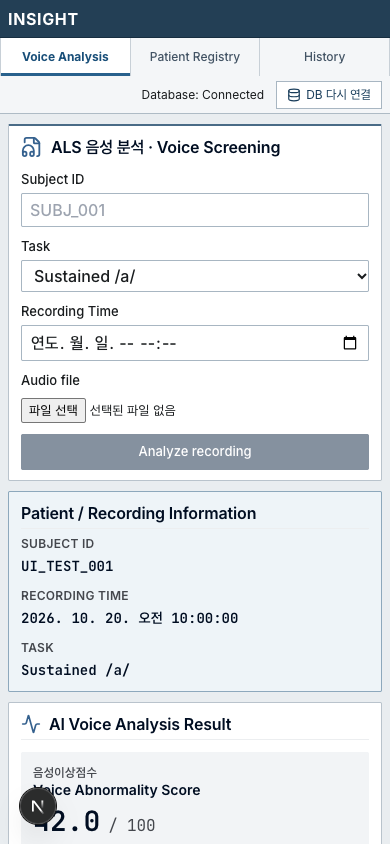
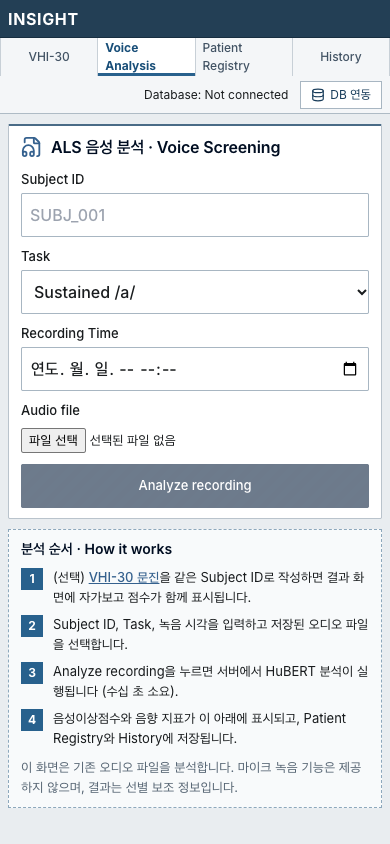
README: rubric-to-evidence map, updated test counts and screenshots; h7 multi-seed + validation OOD calibration script

diff --git a/experiments/h7_multiseed/run_h7_multiseed.py b/experiments/h7_multiseed/run_h7_multiseed.py
@@ -1,0 +1,224 @@
+"""Multi-seed retraining of the deployed head (HuBERT h07 + time max + MLP) and validation-based OOD calibration.
+
+Why: the deployed configuration was trained with one seed (42), so its CIs carry subject-resampling uncertainty
+only. The OOD threshold in ood_calibration.json was set from 4 cached *test* features. This script answers both
+on the same subject split (9bb28df8) without touching the test split for any choice.
+
+Run in Google Colab with Drive mounted (CPU is enough; ~1 min per seed):
+
+    !git clone https://github.com/KYU-SW/INSIGHT.git && cd INSIGHT && pip -q install torch numpy
+    !python experiments/h7_multiseed/run_h7_multiseed.py \
+        --cache-dir "/content/drive/MyDrive/2026_2_INSIGHT/ALS_RESULTS/ALS_voice_analysis_20260921_075155/HUBERT_ALL_LAYERS_POOLED_CACHE_V1" \
+        --out experiments/h7_multiseed
+
+The cache holds one <sample_id>.npz per recording with `pooled` float32 (25, 2, 1024) = hidden state x [mean, max]
+(7EXP notebook). The h07 time-max feature is pooled[7, 1]; it was checked against
+provenance/.../test_features_h07_max.npz (max |diff| <= 7.3e-5 on a feature scale of ~80) and reproduces the stored
+deployed probabilities. The script writes h07_max_9bb28df8.npz (~9 MB) so later runs can use --features instead.
+
+Recipe = deployed run 20261005T055211_070474Z: StandardScaler fit on train, Linear(1024,128)-ReLU-Linear(128,1)
+(head.pt has classifier.0/classifier.2, i.e. no dropout layer), Adam lr 1e-3, batch 64, BCE, max 100 epochs,
+patience 20 on validation loss, best-val-loss weights. Weight decay is not recorded in that run's config; default 0
+(override with --weight-decay). Subject rule fixed in advance: mean P(ALS) over recordings >= 0.5.
+"""
+
+import argparse
+import csv
+import hashlib
+import json
+import random
+from pathlib import Path
+
+import numpy as np
+import torch
+from torch import nn
+
+ROOT = Path(__file__).resolve().parents[2]
+RUN = ROOT / "provenance" / "run_20261005T055211_070474Z"
+
+
+def load_manifest(path):
+    rows = list(csv.DictReader(open(path, newline="")))
+    return [(r["sample_id"], r["subject"], int(r["label"]), r["split"]) for r in rows]
+
+
+def consolidate(cache_dir, manifest, out_path):
+    feats = np.empty((len(manifest), 1024), dtype=np.float32)
+    for i, (sample_id, *_rest) in enumerate(manifest):
+        with np.load(Path(cache_dir) / f"{sample_id}.npz", allow_pickle=False) as z:
+            pooled = z["pooled"]
+        if pooled.shape != (25, 2, 1024):
+            raise ValueError(f"{sample_id}: unexpected pooled shape {pooled.shape}")
+        feats[i] = pooled[7, 1]
+    np.savez(out_path, features=feats, sample_id=np.array([m[0] for m in manifest]))
+    return feats
+
+
+def check_against_provenance(feats, manifest):
+    ref_path = RUN / "test_features_h07_max.npz"
+    if not ref_path.exists():
+        return None
+    index = {m[0]: i for i, m in enumerate(manifest)}
+    with np.load(ref_path, allow_pickle=False) as ref:  # keys are sample_ids, values the 1024-d h07 max feature
+        ref_x = {k: ref[k] for k in ref.keys()}
+    ids = list(ref_x)
+    diff = max(float(np.max(np.abs(feats[index[s]] - ref_x[s]))) for s in ids)
+    if diff > 1e-3:
+        raise SystemExit(f"Feature mismatch vs provenance (max |diff| {diff:.2e}): wrong layer/pooling or cache version")
+    return {"n": len(ids), "max_abs_diff": diff}
+
+
+class Head(nn.Module):
+    def __init__(self, dropout):
+        super().__init__()
+        layers = [nn.Linear(1024, 128), nn.ReLU()] + ([nn.Dropout(dropout)] if dropout else []) + [nn.Linear(128, 1)]
+        self.classifier = nn.Sequential(*layers)
+
+    def forward(self, x):
+        return self.classifier(x)[:, 0]
+
+
+def seed_everything(seed):
+    random.seed(seed); np.random.seed(seed); torch.manual_seed(seed)
+    torch.use_deterministic_algorithms(True, warn_only=True)
+
+
+@torch.no_grad()
+def predict(model, x):
+    model.eval()
+    return torch.sigmoid(model(torch.from_numpy(x))).numpy()
+
+
+def train(x_tr, y_tr, x_va, y_va, seed, args):
+    seed_everything(seed)
+    model = Head(args.dropout)
+    opt = torch.optim.Adam(model.parameters(), lr=1e-3, weight_decay=args.weight_decay)
+    xt, yt = torch.from_numpy(x_tr), torch.from_numpy(y_tr.astype(np.float32))
+    xv, yv = torch.from_numpy(x_va), torch.from_numpy(y_va.astype(np.float32))
+    gen = torch.Generator().manual_seed(seed)
+    best, best_state, best_epoch, stale = float("inf"), None, 0, 0
+    for epoch in range(1, args.max_epochs + 1):
+        model.train()
+        for idx in torch.randperm(len(xt), generator=gen).split(64):
+            opt.zero_grad(set_to_none=True)
+            nn.functional.binary_cross_entropy_with_logits(model(xt[idx]), yt[idx]).backward()
+            opt.step()
+        model.eval()
+        with torch.no_grad():
+            vloss = float(nn.functional.binary_cross_entropy_with_logits(model(xv), yv))
+        if vloss < best:
+            best, best_epoch, stale = vloss, epoch, 0
+            best_state = {k: v.clone() for k, v in model.state_dict().items()}
+        else:
+            stale += 1
+            if stale >= args.patience:
+                break
+    model.load_state_dict(best_state)
+    return model, best_epoch
+
+
+def auroc(y, p):
+    pos, neg = p[y == 1], p[y == 0]
+    return float(((pos[:, None] > neg[None, :]).sum() + 0.5 * (pos[:, None] == neg[None, :]).sum()) / (len(pos) * len(neg)))
+
+
+def binary(y, p):
+    pred = p >= 0.5
+    se, sp = float(pred[y == 1].mean()), float((~pred[y == 0]).mean())
+    return {"accuracy": float((pred == (y == 1)).mean()), "sensitivity": se, "specificity": sp, "auroc": auroc(y, p)}
+
+
+def by_subject(subjects, y, p):
+    ids = sorted(set(subjects))
+    sp = np.array([p[subjects == s].mean() for s in ids])
+    sy = np.array([y[subjects == s][0] for s in ids])
+    return sy, sp
+
+
+def bootstrap_auroc(y, p, n=10000, seed=0):
+    rng = np.random.default_rng(seed)
+    groups = [np.flatnonzero(y == c) for c in (0, 1)]
+    vals = [auroc(y[i], p[i]) for i in (np.concatenate([rng.choice(g, len(g)) for g in groups]) for _ in range(n))]
+    return [float(np.percentile(vals, 2.5)), float(np.percentile(vals, 97.5))]
+
+
+def main():
+    ap = argparse.ArgumentParser(description=__doc__.split("\n")[0])
+    src = ap.add_mutually_exclusive_group(required=True)
+    src.add_argument("--cache-dir", help="HUBERT_ALL_LAYERS_POOLED_CACHE_V1 folder (per-recording npz)")
+    src.add_argument("--features", help="consolidated h07_max_9bb28df8.npz written by an earlier run")
+    ap.add_argument("--manifest", default=str(RUN / "split_manifest.csv"))
+    ap.add_argument("--scaler", default=str(ROOT / "scaler.npz"), help="deployed scaler, used for the OOD distance")
+    ap.add_argument("--out", default=str(Path(__file__).parent))
+    ap.add_argument("--seeds", default="42,43,44,45,46")
+    ap.add_argument("--dropout", type=float, default=0.0)
+    ap.add_argument("--weight-decay", type=float, default=0.0)
+    ap.add_argument("--max-epochs", type=int, default=100)
+    ap.add_argument("--patience", type=int, default=20)
+    ap.add_argument("--bootstrap", type=int, default=10000)
+    args = ap.parse_args()
+    out = Path(args.out); out.mkdir(parents=True, exist_ok=True)
+
+    manifest = load_manifest(args.manifest)
+    if args.cache_dir:
+        feats_path = out / "h07_max_9bb28df8.npz"
+        feats = consolidate(args.cache_dir, manifest, feats_path)
+    else:
+        feats_path = Path(args.features)
+        with np.load(feats_path, allow_pickle=False) as z:
+            order = {str(s): i for i, s in enumerate(z["sample_id"])}
+            feats = z["features"][[order[m[0]] for m in manifest]].astype(np.float32)
+    provenance_check = check_against_provenance(feats, manifest)
+
+    split = np.array([m[3] for m in manifest]); y = np.array([m[2] for m in manifest])
+    subj = np.array([m[1] for m in manifest])
+    tr, va, te = (split == s for s in ("train", "val", "test"))
+    mean, std = feats[tr].mean(0), feats[tr].std(0)
+    std[std == 0] = 1.0
+    z = ((feats - mean) / std).astype(np.float32)
+
+    per_seed, test_probs = [], []
+    for seed in (int(s) for s in args.seeds.split(",")):
+        model, best_epoch = train(z[tr], y[tr], z[va], y[va], seed, args)
+        p = predict(model, z[te]); test_probs.append(p)
+        sy, sp = by_subject(subj[te], y[te], p)
+        per_seed.append({"seed": seed, "best_epoch": best_epoch, "recording": binary(y[te], p), "subject": binary(sy, sp)})
+        print(f"seed {seed}: best epoch {best_epoch}, test rec ACC {per_seed[-1]['recording']['accuracy']:.4f}, "
+              f"subject AUROC {per_seed[-1]['subject']['auroc']:.3f}")
+
+    def summary(level, key):
+        v = np.array([r[level][key] for r in per_seed])
+        return {"mean": float(v.mean()), "sd": float(v.std(ddof=1)) if len(v) > 1 else 0.0}
+
+    ens = np.mean(test_probs, axis=0)
+    sy, sp = by_subject(subj[te], y[te], ens)
+
+    with np.load(args.scaler, allow_pickle=False) as s:
+        dmean, dscale = s["mean"], s["scale"]
+    dist = np.sqrt(np.mean(((feats - dmean) / dscale) ** 2, axis=1))
+    threshold = float(np.percentile(dist[va], 99))
+    ood = {"rule": "99th percentile of VALIDATION distances (deployed scaler); test not used for the choice",
+           "threshold": round(threshold, 4),
+           "validation_distance_percentiles": {q: round(float(np.percentile(dist[va], q)), 4) for q in (50, 90, 95, 99, 100)},
+           "flagged_fraction": {name: float((dist[m] > threshold).mean()) for name, m in (("train", tr), ("val", va), ("test", te))}}
+
+    result = {
+        "features": {"path": str(feats_path.name), "sha256": hashlib.sha256(feats.tobytes()).hexdigest(),
+                     "provenance_check": provenance_check},
+        "recipe": {"dropout": args.dropout, "weight_decay": args.weight_decay, "max_epochs": args.max_epochs,
+                   "patience": args.patience, "lr": 1e-3, "batch_size": 64, "torch": torch.__version__},
+        "n": {"train": int(tr.sum()), "val": int(va.sum()), "test": int(te.sum()), "test_subjects": len(sy)},
+        "per_seed": per_seed,
+        "mean_sd": {lvl: {k: summary(lvl, k) for k in ("accuracy", "sensitivity", "specificity", "auroc")}
+                    for lvl in ("recording", "subject")},
+        "seed_ensemble_subject": binary(sy, sp) | {"auroc_ci95": bootstrap_auroc(sy, sp, args.bootstrap)},
+        "ood_validation_calibration": ood,
+        "note": "Deployed seed-42 run reported test recording ACC 75.30%; seed 42 here may differ slightly "
+                "(GPU vs CPU arithmetic, torch version).",
+    }
+    (out / "results.json").write_text(json.dumps(result, indent=2) + "\n")
+    print(json.dumps({"mean_sd": result["mean_sd"], "ensemble": result["seed_ensemble_subject"], "ood": ood}, indent=2))
+
+
+if __name__ == "__main__":
+    main()

diff --git a/experiments/h7_multiseed/README.md b/experiments/h7_multiseed/README.md
@@ -1,0 +1,26 @@
+# h7 다중 seed 재학습과 검증 분할 기반 OOD 보정
+
+**목적.** 배포 구성(HuBERT h07 + 시간축 max pooling + MLP)은 seed 42 한 번만 학습되었다. OOD 임계값도 시험 특징 4개로 정했다. 이 스크립트는 같은 피험자 분할(9bb28df8)에서 다음 두 가지를 함께 계산한다.
+
+1. 배포 레시피 그대로 seed 42–46을 학습하고 다음을 산출한다.
+   - 녹음·피험자 단위 지표의 평균 ± SD
+   - seed 앙상블의 피험자 AUROC와 그 bootstrap 95% CI
+2. 검증 분할 거리의 99 백분위로 OOD 임계값을 정하고, 학습·검증·시험 분할의 오거부율을 산출한다. 시험 분할은 임계값 선택에 쓰지 않는다.
+
+**입력.** Drive `HUBERT_ALL_LAYERS_POOLED_CACHE_V1`는 녹음당 `<sample_id>.npz` 파일이며, `pooled`의 형태는 (25, 2, 1024)이다. h07 max 특징은 `pooled[7, 1]`이다.
+- 이 특징을 `provenance/run_20261005T055211_070474Z/test_features_h07_max.npz`와 대조했다. 최대 차이는 7.3×10⁻⁵이고, 특징 크기는 약 80이다.
+- 시험 녹음 2개에서 저장된 배포 확률이 재현되었다.
+
+**실행 (Colab, Drive 마운트).** 파일이 2,164개로 나뉘어 있어 로컬 도구로는 받기 어렵다.
+
+```sh
+python experiments/h7_multiseed/run_h7_multiseed.py \
+  --cache-dir "/content/drive/MyDrive/2026_2_INSIGHT/ALS_RESULTS/ALS_voice_analysis_20260921_075155/HUBERT_ALL_LAYERS_POOLED_CACHE_V1" \
+  --out experiments/h7_multiseed
+```
+
+**결과 파일.** `results.json`과 통합 특징 파일 `h07_max_9bb28df8.npz`(약 9 MB)가 생긴다. 이후에는 `--features` 옵션으로 통합 파일을 바로 쓸 수 있다.
+
+**검증 상태.**
+- 합성 캐시(2,164개, 시험 4개는 실제 provenance 특징)로 두 입력 경로가 모두 동작함을 확인했다.
+- 실제 데이터 결과는 아직 없다.
